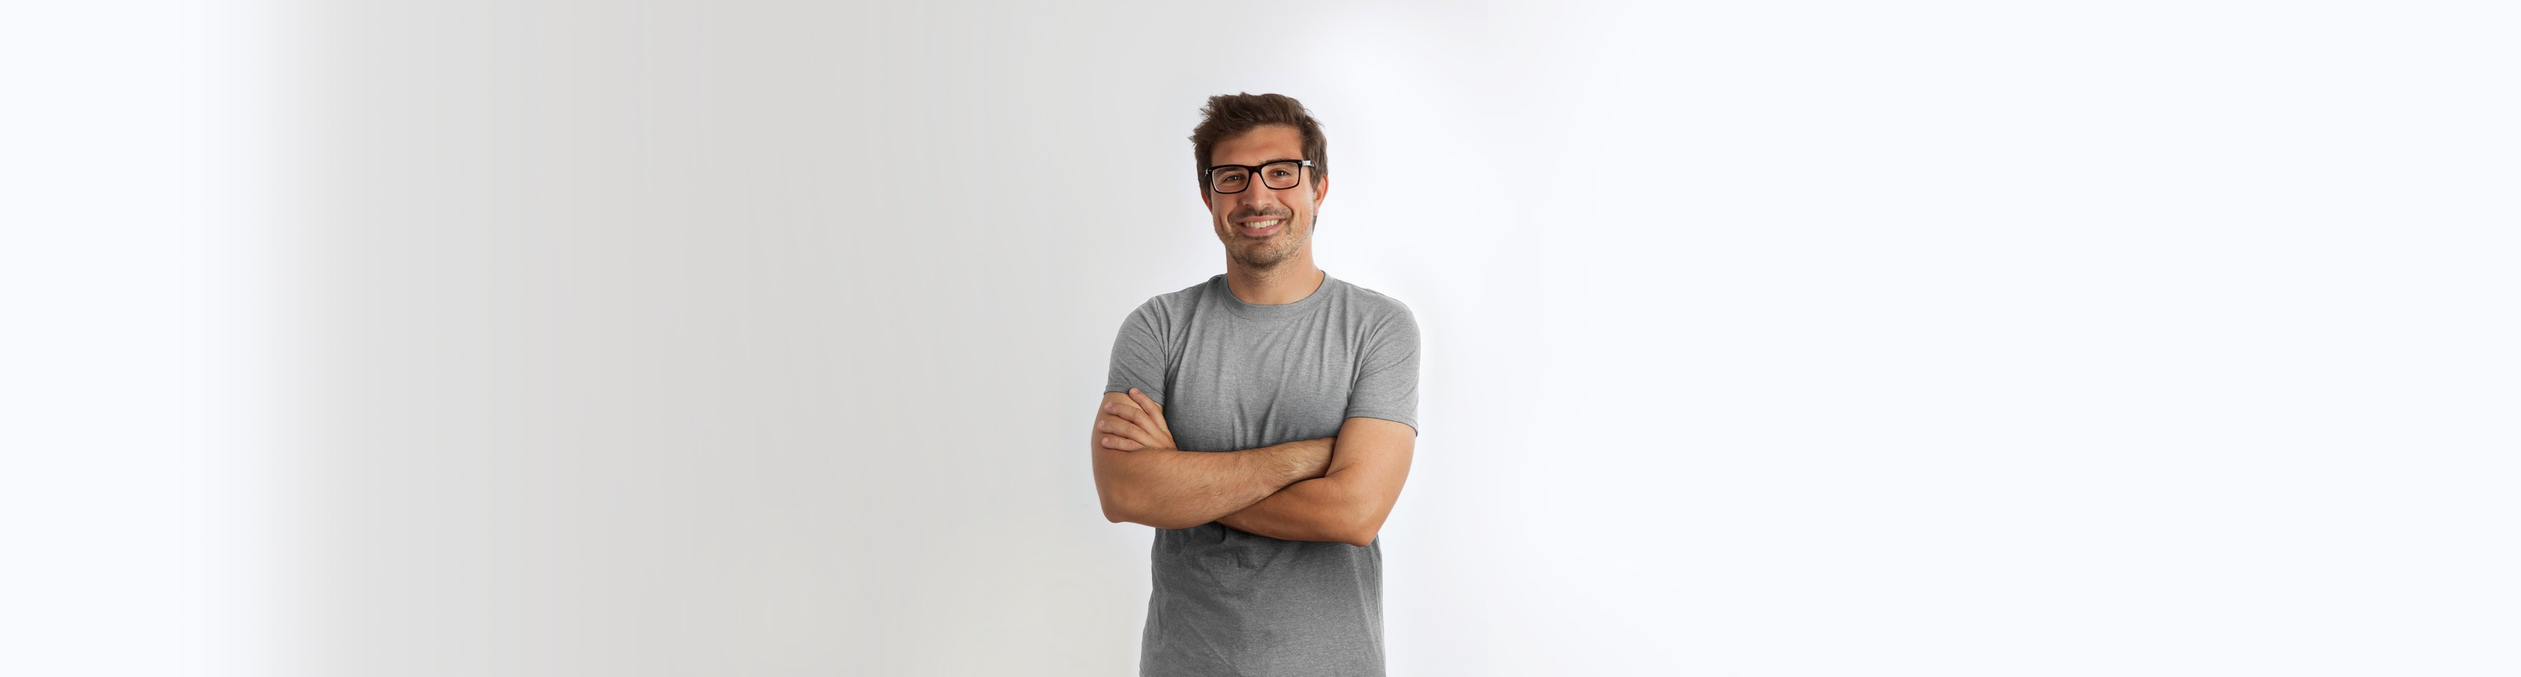
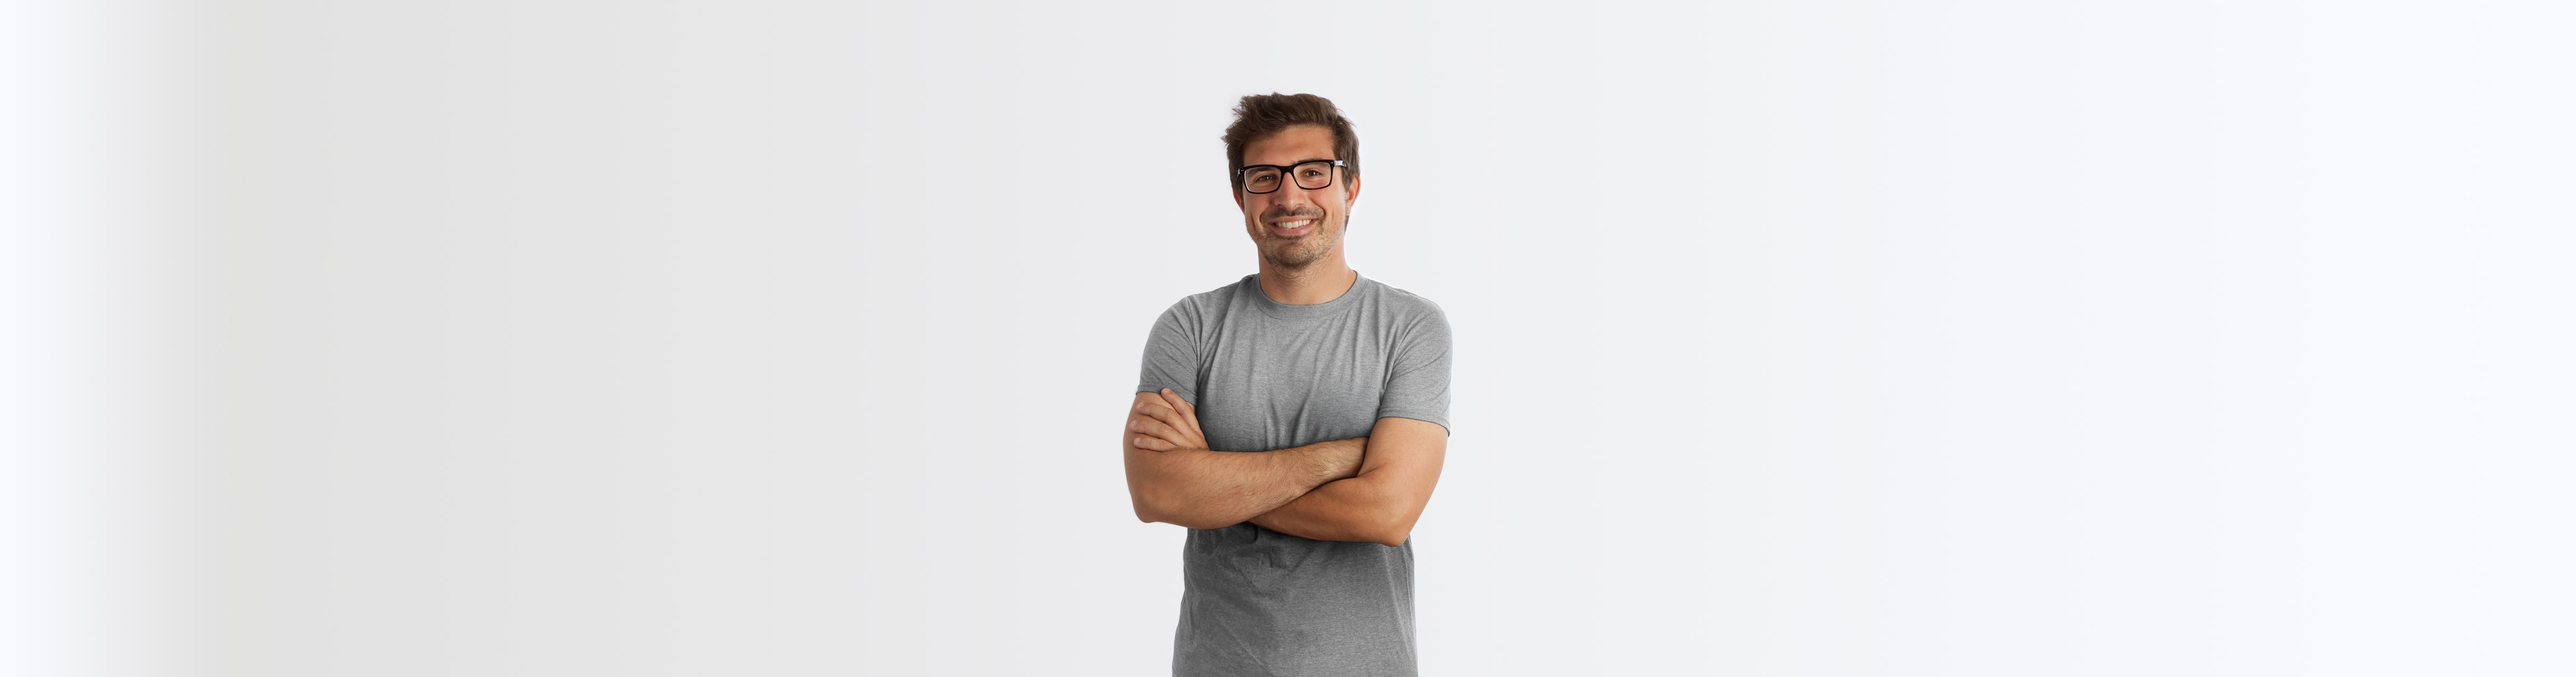
Added background to about image

Changed region(s): [[0.312, 0.125, 0.5616, 1.0], [0.0624, 0.0, 0.1248, 1.0], [0.3432, 0.625, 0.3744, 0.6875]]

diff --git a/styles/app.css b/styles/app.css
@@ -6014,7 +6014,6 @@ input[type="checkbox"] {
 }
 
 .hero__read-more {
-  font-size: 0.86rem;
   text-transform: uppercase;
   font-weight: 700;
   letter-spacing: 0.15em;
@@ -6025,12 +6024,7 @@ input[type="checkbox"] {
   width: 100%;
   text-align: center;
   text-decoration: none;
-}
-
-@media (min-width: 960px) {
-  .hero__read-more {
-    font-size: 0.75rem;
-  }
+  font-size: 0.7rem;
 }
 
 .hero__read-more:hover, .hero__read-more:focus {
@@ -6040,6 +6034,12 @@ input[type="checkbox"] {
 
 .hero__read-more:hover .icon svg .shape, .hero__read-more:focus .icon svg .shape {
   fill: #f2461c;
+}
+
+@media (min-width: 960px) {
+  .hero__read-more {
+    font-size: 0.7777777778rem;
+  }
 }
 
 .hero__read-more .text {
@@ -7127,6 +7127,21 @@ input[type="checkbox"] {
   overflow: hidden;
 }
 
+.ps-home-about:after {
+  content: '';
+  display: block;
+  position: absolute;
+  width: 100%;
+  height: 100%;
+  top: 0;
+  left: 0;
+  background-image: url("../images/home-about-bgcolor.jpg");
+  background-repeat: repeat-y;
+  background-size: auto 18em;
+  background-position: bottom center;
+  z-index: -2;
+}
+
 .ps-home-about:before {
   content: '';
   display: block;
@@ -7136,10 +7151,10 @@ input[type="checkbox"] {
   left: 0;
   height: 18em;
   background-image: url("../images/home-about-bg.jpg");
+  background-size: auto 18em;
   background-repeat: no-repeat;
   background-position: bottom center;
   z-index: -1;
-  background-size: auto 18em;
 }
 
 @media (min-width: 960px) {
@@ -7147,6 +7162,9 @@ input[type="checkbox"] {
     padding-bottom: 7em;
     background-image: none;
     background-image: none;
+  }
+  .ps-home-about:after {
+    display: none;
   }
   .ps-home-about:before {
     content: '';
@@ -7163,20 +7181,6 @@ input[type="checkbox"] {
     background-position: bottom center;
     background-size: cover;
   }
-}
-
-.ps-home-about:after {
-  content: "";
-  position: absolute;
-  bottom: -6.1em;
-  left: 0;
-  display: block;
-  width: 100%;
-  background-image: url("../images/dots-bg.svg");
-  background-repeat: repeat;
-  background-position: top;
-  height: 6.1em;
-  background-size: 48px 48px;
 }
 
 .ps-home-about > .container {
@@ -7199,9 +7203,11 @@ input[type="checkbox"] {
   }
 }
 
-.ps-home-about .page-section__content p {
-  background-color: rgba(248, 249, 253, 0.4);
-  box-shadow: 0 0 2em 1em rgba(248, 249, 253, 0.4);
+@media (min-width: 960px) {
+  .ps-home-about .page-section__content p {
+    background-color: rgba(248, 249, 253, 0.4);
+    box-shadow: 0 0 2em 1em rgba(248, 249, 253, 0.4);
+  }
 }
 
 .ps-home-about .social-links {

diff --git a/_assets/styles/templates/_tpl-home.scss b/_assets/styles/templates/_tpl-home.scss
@@ -19,6 +19,19 @@
     z-index: 1;
     background-color: #F9FAFE;
     overflow: hidden;
+    &:after{
+        content: '';
+        display: block;
+        position: absolute;
+        width: 100%; height: 100%;
+        top: 0; left: 0;
+        background-image: url('../images/home-about-bgcolor.jpg');
+        background-repeat: repeat-y;
+        background-size: auto 18em;
+        background-position: bottom center;
+        z-index: -2;
+        //transform: rotateY(180deg);
+    }
     &:before {
         content: '';
         display: block;
@@ -28,15 +41,18 @@
         left: 0;
         height: 18em;
         background-image: url('../images/home-about-bg.jpg');
+        background-size: auto 18em;
         background-repeat: no-repeat;
         background-position: bottom center;
         z-index: -1;
-        background-size: auto 18em;
     }
     @include respond-to("medium") {
         padding-bottom: 7em;
         background-image: none;
         background-image: none;
+        &:after{
+            display: none;
+        }
         // Image background
         &:before {
             content: '';
@@ -54,21 +70,24 @@
             background-size: cover;
         }
     }
-    // Dots decoration
-    &:after {
-        content: "";
-        position: absolute;
-        bottom: -6.1em;
-        left: 0;
-        display: block;
-        width: 100%;
-        background-image: url("../images/dots-bg.svg");
-        background-repeat: repeat;
-        background-position: top;
-        height: 6.1em;
-        background-size: 48px 48px;
-    }
 }
+
+
+// Dots decoration
+// &:after {
+//     content: "";
+//     position: absolute;
+//     bottom: -6.1em;
+//     left: 0;
+//     display: block;
+//     width: 100%;
+//     background-image: url("../images/dots-bg.svg");
+//     background-repeat: repeat;
+//     background-position: top;
+//     height: 6.1em;
+//     background-size: 48px 48px;
+// }
+
 
 .ps-home-about > .container {
     max-width: 550px;
@@ -85,8 +104,10 @@
 }
 
 .ps-home-about .page-section__content p {
-    background-color: rgba(#F8F9FD, 0.4);
-    box-shadow: 0 0 2em 1em rgba(#F8F9FD, 0.4);
+    @include respond-to("medium") {
+        background-color: rgba(#F8F9FD, 0.4);
+        box-shadow: 0 0 2em 1em rgba(#F8F9FD, 0.4);
+    }
 }
 
 .ps-home-about .social-links {

diff --git a/_assets/styles/modules/_hero-intro.scss b/_assets/styles/modules/_hero-intro.scss
@@ -65,7 +65,6 @@
 }
 
 .hero__read-more {
-    @include ts(-2);
     text-transform: uppercase;
     font-weight: $font-weight-medium;
     letter-spacing: 0.15em;
@@ -82,6 +81,10 @@
         .icon svg .shape{
             fill: $brand-secondary-color;
         }
+    }
+    font-size: 0.7rem;
+    @include respond-to("medium") {
+        font-size: pxrem(14px);
     }
 }
 
